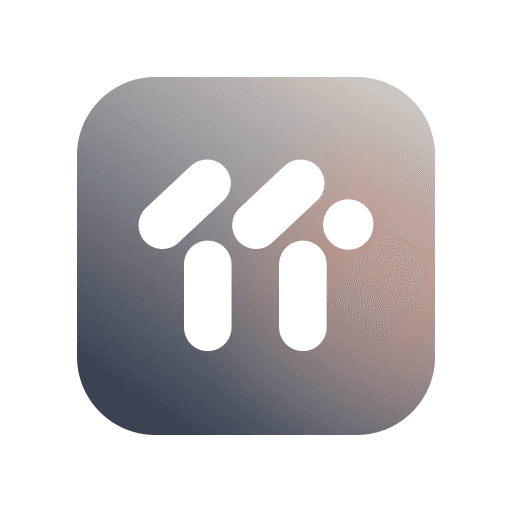
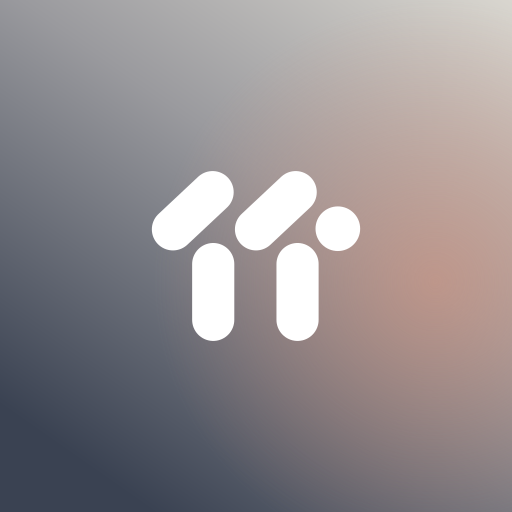
Icône Android pleine et carte musique de la TV retravaillée
- Icône adaptative (maskable) sans marge blanche, logo dans la zone visible
- TV : en pause, carte floutée sous un pictogramme pause ; barre de progression de 4 px

diff --git a/apps/tv/src/components/NowPlayingBar.tsx b/apps/tv/src/components/NowPlayingBar.tsx
@@ -1,4 +1,5 @@
 import { NOW_PLAYING_IDLE_HIDE_MS, type NowPlaying } from '@11tv/shared';
+import { usePlaybackPosition } from '@11tv/web';
 import { useEffect, useRef, useState } from 'preact/hooks';
 import { usePixelShift } from '../hooks/use-pixel-shift';
 
@@ -27,8 +28,9 @@ function useVisible(nowPlaying: NowPlaying | null): boolean {
 }
 
 /**
- * Pastille « En cours de lecture » en bas de l'écran : pochette, titre, artiste et l'état
- * de lecture. Elle garde le dernier titre pendant son fondu de sortie.
+ * Carte « En cours de lecture » en bas de l'écran : pochette, titre, artiste et une fine
+ * barre de progression collée au bord inférieur. En pause, son contenu est flouté sous un
+ * pictogramme pause. Elle garde le dernier titre pendant son fondu de sortie.
  */
 export function NowPlayingBar({ nowPlaying }: Props) {
   const visible = useVisible(nowPlaying);
@@ -36,33 +38,38 @@ export function NowPlayingBar({ nowPlaying }: Props) {
   const lastShown = useRef<NowPlaying | null>(null);
   if (visible && nowPlaying) lastShown.current = nowPlaying;
   const track = visible ? nowPlaying : lastShown.current;
+  const position = usePlaybackPosition(track);
   if (!track) return null;
+
+  const progress = track.durationSec > 0 ? Math.min(1, position / track.durationSec) : 0;
+  const classes = ['now-playing', 'glass'];
+  if (!visible) classes.push('now-playing--hidden');
+  if (!track.playing) classes.push('now-playing--paused');
 
   return (
     <section
-      class={visible ? 'now-playing glass' : 'now-playing now-playing--hidden glass'}
+      class={classes.join(' ')}
       style={{ transform: `translateX(-50%) ${shift}` }}
-      aria-label="En cours de lecture"
+      aria-label={track.playing ? 'En cours de lecture' : 'En pause'}
       aria-hidden={!visible}
     >
-      <div class="now-playing__art">
-        {track.artworkUrl && <img src={track.artworkUrl} alt="" />}
+      <div class="now-playing__content">
+        <div class="now-playing__art">
+          {track.artworkUrl && <img src={track.artworkUrl} alt="" />}
+        </div>
+        <div class="now-playing__text">
+          <div class="now-playing__title">{track.title}</div>
+          <div class="now-playing__artist">{track.artist}</div>
+        </div>
       </div>
-      <div class="now-playing__text">
-        <div class="now-playing__title">{track.title}</div>
-        <div class="now-playing__artist">{track.artist}</div>
-      </div>
-      <svg
-        class="now-playing__state"
-        viewBox="0 0 24 24"
-        aria-label={track.playing ? 'Lecture' : 'En pause'}
-      >
-        {track.playing ? (
-          <path d="M8 5.5v13a1 1 0 0 0 1.5.9l10.2-6.5a1 1 0 0 0 0-1.8L9.5 4.6A1 1 0 0 0 8 5.5Z" />
-        ) : (
+      {!track.playing && (
+        <svg class="now-playing__pause" viewBox="0 0 24 24" aria-hidden="true">
           <path d="M7 5h3.2v14H7zM13.8 5H17v14h-3.2z" />
-        )}
-      </svg>
+        </svg>
+      )}
+      <div class="now-playing__progress">
+        <div class="now-playing__bar" style={{ transform: `scaleX(${String(progress)})` }} />
+      </div>
     </section>
   );
 }

diff --git a/apps/tv/src/styles.css b/apps/tv/src/styles.css
@@ -81,18 +81,60 @@ body {
   position: absolute;
   left: 50%;
   bottom: 4.5vh;
-  display: flex;
-  align-items: center;
-  gap: 1vw;
   width: 24vw;
-  padding: 0.6vw 1.1vw 0.6vw 0.6vw;
+  /* En bas, la place de la barre de progression (4 px), collée au bord. */
+  padding: 0.6vw 1.1vw calc(0.6vw + 4px) 0.6vw;
   border-radius: 0.9vw;
+  overflow: hidden;
   transition: transform 3s ease;
   animation: fade-in 800ms ease both;
 }
 
 .now-playing--hidden {
   animation: fade-out 800ms ease both;
+}
+
+.now-playing__content {
+  display: flex;
+  align-items: center;
+  gap: 1vw;
+  transition:
+    filter 400ms ease,
+    opacity 400ms ease;
+}
+
+/* En pause : contenu flouté, pictogramme pause par-dessus. */
+.now-playing--paused .now-playing__content {
+  filter: blur(0.35vw);
+  opacity: 0.7;
+}
+
+.now-playing__pause {
+  position: absolute;
+  top: 50%;
+  left: 50%;
+  width: 2vw;
+  height: 2vw;
+  transform: translate(-50%, -50%);
+  fill: currentColor;
+  filter: drop-shadow(0 1px 4px rgba(0, 0, 0, 0.3));
+  animation: fade-in 400ms ease both;
+}
+
+.now-playing__progress {
+  position: absolute;
+  left: 0;
+  right: 0;
+  bottom: 0;
+  height: 4px;
+  background: rgba(255, 255, 255, 0.18);
+}
+
+.now-playing__bar {
+  height: 100%;
+  background: rgba(255, 255, 255, 0.85);
+  transform-origin: left;
+  transition: transform 500ms linear;
 }
 
 .now-playing__art {
@@ -132,13 +174,6 @@ body {
   margin-top: 0.1vw;
   font-size: 0.8vw;
   color: var(--text-dim);
-}
-
-.now-playing__state {
-  flex: 0 0 auto;
-  width: 1.4vw;
-  height: 1.4vw;
-  fill: currentColor;
 }
 
 /* --- Appairage ----------------------------------------------------------- */
